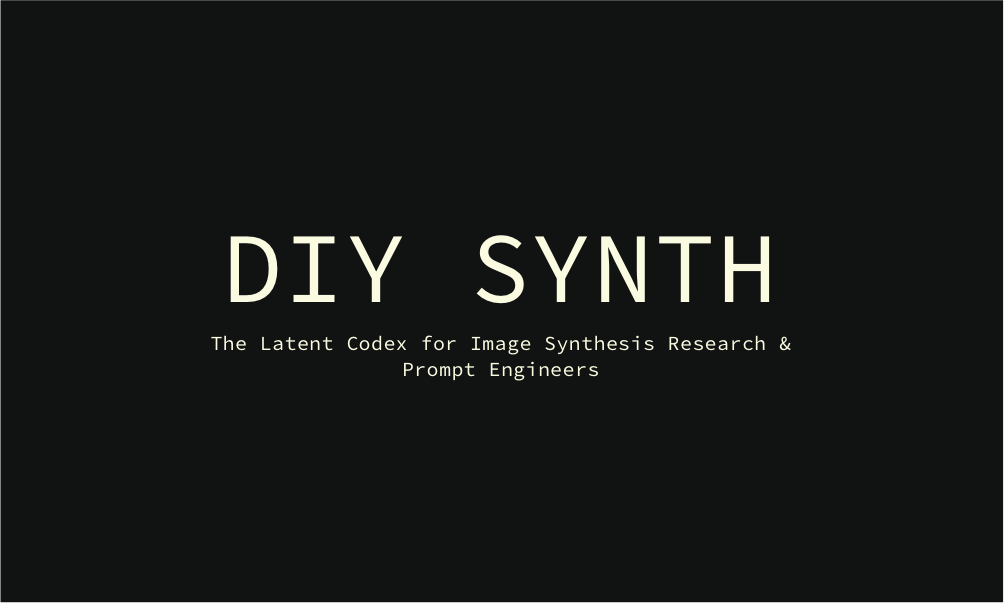
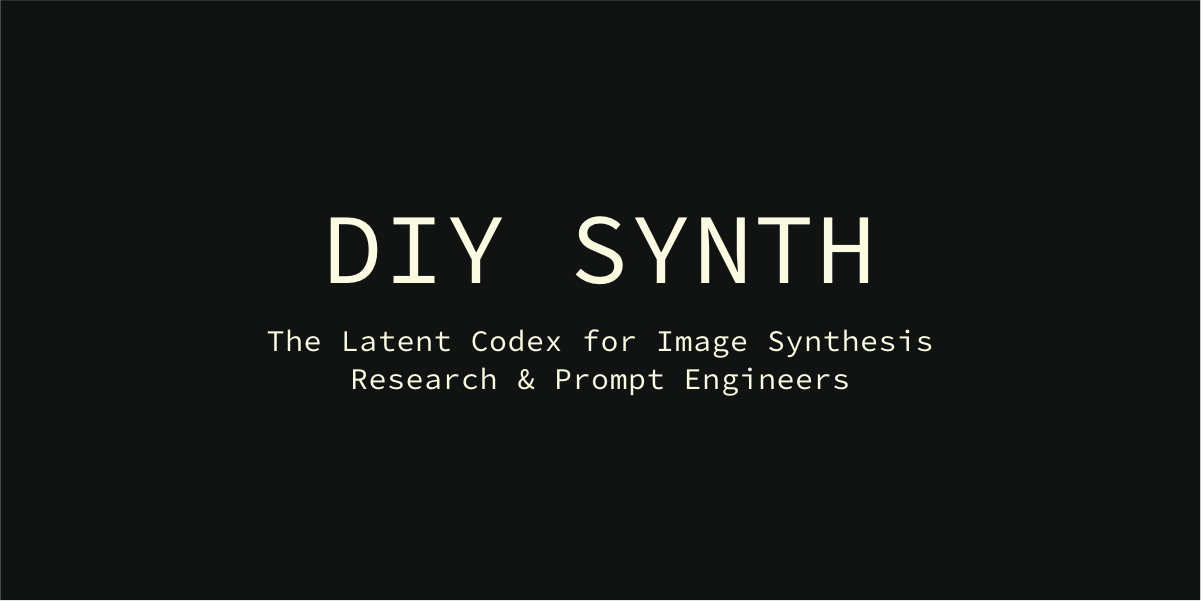
twitter card

diff --git a/theme.config.js b/theme.config.js
@@ -51,7 +51,7 @@ export default {
         <meta name="og:description" content={description} />
         <meta name="og:title" content={title_} />
         <meta name="og:image" content="https://github.com/DIGITALAX/diysynth/blob/main/public/card.png" />
-        <meta name="twitter:card" content="https://github.com/DIGITALAX/diysynth/blob/main/public/card.png" />
+        <meta name="twitter:card" content="summary_large_image" />
 
         {/* Misc */}
         <meta name="apple-mobile-web-app-title" content="DIY SYNTH" />
